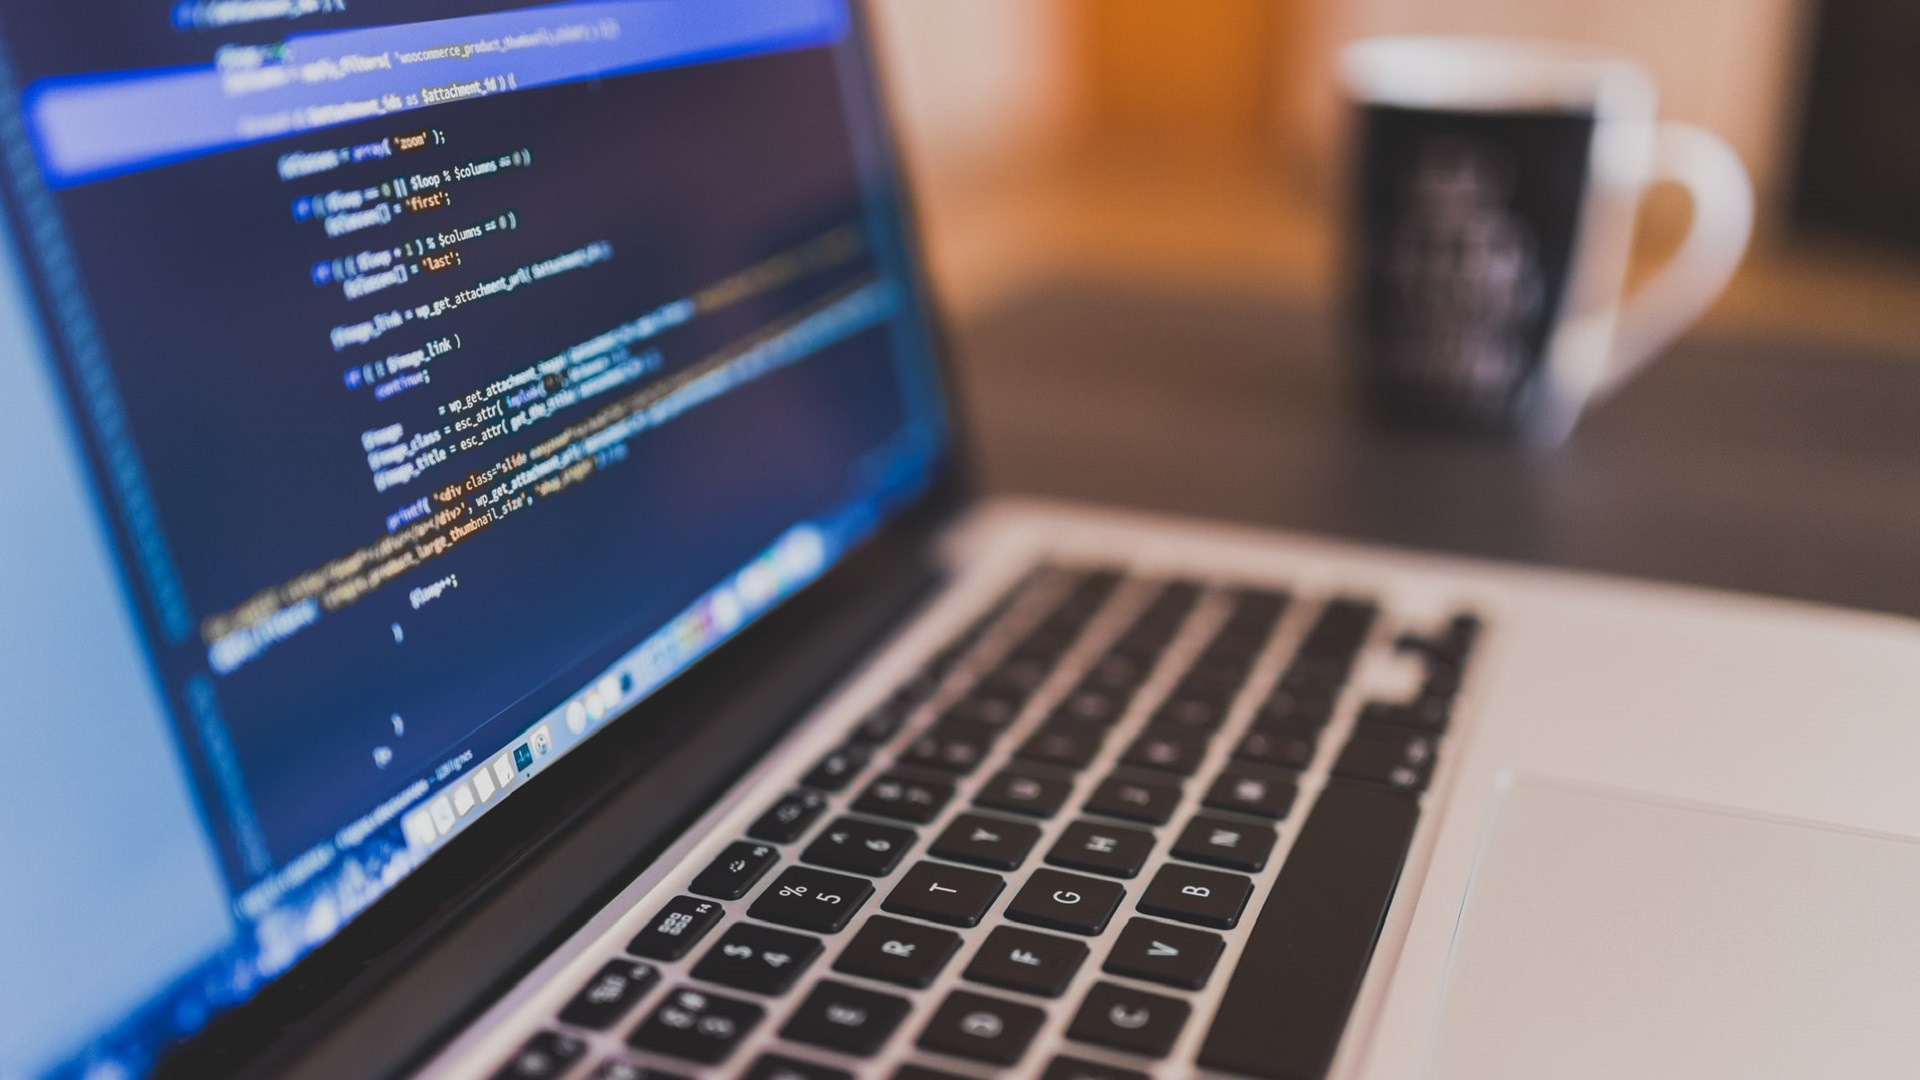
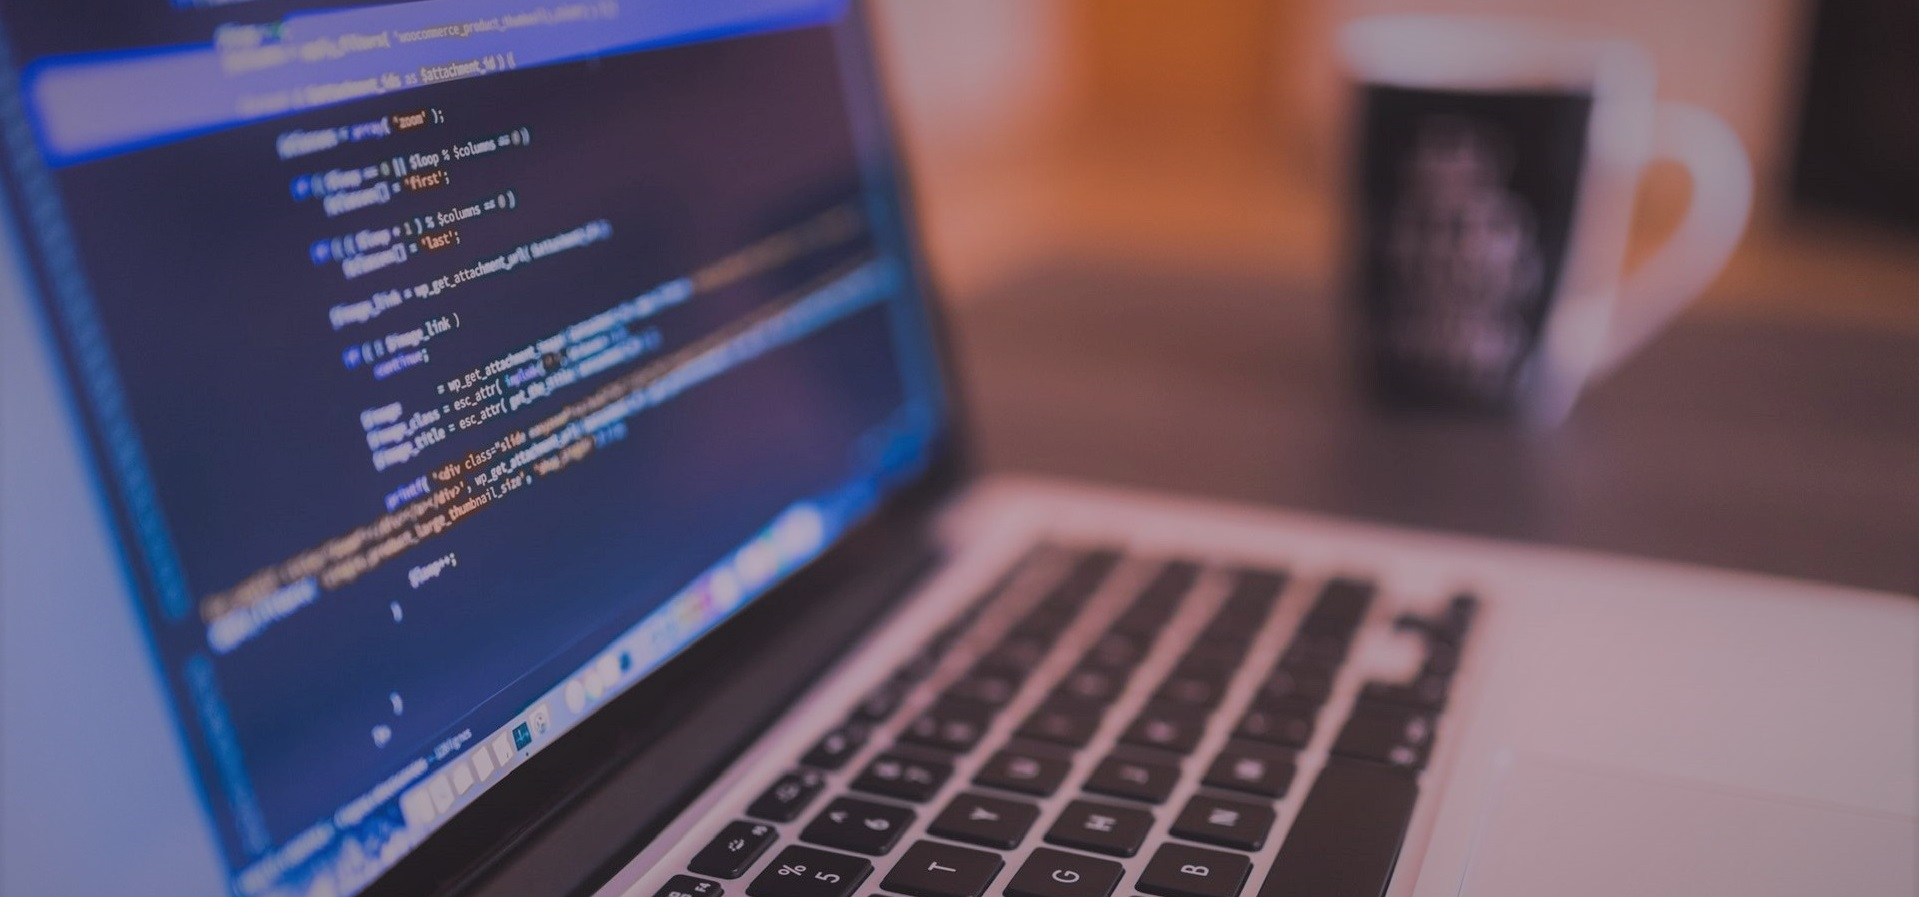
descriptions adjusted and images added

diff --git a/website/src/assets/projects/serpens-pro/en-assets.js b/website/src/assets/projects/serpens-pro/en-assets.js
@@ -1,11 +1,22 @@
-import serpensPro from './images/showcase.jpg';
+import serpensShowcase from './images/serpens-showcase.jpg';
+import serpens1 from './images/serpens1.jpg';
+import serpens2 from './images/serpens2.jpg';
 
 export default {
   title: '»Serpens Pro«',
   showcase: {
-    image: serpensPro,
-    text: 'A geometric typeface, based on elementary forms and bound by strict rules. This font is based upon divided circles and lines in corresponding lengths. For capital letters, individual parts must not overlap, instead gaps are used to achieve appropriate dimensions. For minuscules overlapping is permitted to ensure more compact visuals. The circle elements also give the font its name: »Serpens Pro«.'
+    image: serpensShowcase,
+    text: 'A geometric typeface, based on elementary forms and bound by strict rules. Readibility was not the main focus of this project, the goal was to define strict principles and not depart from them even if it makes the font less readable. The circle elements give the font its name: »Serpens Pro«.'
   },
-  blocks: [],
-  footer: ''
+  blocks: [
+    {
+      image: serpens1,
+      text: 'The elements used to form the letters of »Serpens Pro« - divided circles and lines in corresponding lengths. For capital letters, individual parts must not overlap, instead gaps are used to achieve appropriate dimensions. For minuscules overlapping is permitted to ensure more compact visuals.'
+    },
+    {
+      image: serpens2,
+      text: 'I designed two posters to showcase the font. One displays all capital letters of the alphabet on a chessboard-like patteen. The other poster displays the geometric elements the typeface\'s letters are made out of. This shows the technical and abstract construction principles of »Serpens Pro«.'
+    }
+  ],
+  footer: 'I also created a video showcasing the construction of the font. There, the basic elements morph into letters to form a lettering. This video can be found on my <a href="https://jonaskuske.myportfolio.com/serpens-pro" rel="noopener" target="_blank">Adobe Portfolio</a>.'
 };

diff --git a/website/src/assets/projects/lsb-homepage/de-assets.js b/website/src/assets/projects/lsb-homepage/de-assets.js
@@ -1,5 +1,6 @@
-import lsbHomepage from './images/showcase.png';
 import lsbShowcase from './images/lsbShowcase.jpg';
+import lsb1 from './images/lsb1.jpg';
+import lsb2 from './images/lsb2.jpg';
 
 export default {
   title: '»Landessportbund Bremen«',
@@ -9,11 +10,11 @@ export default {
   },
   blocks: [
     {
-      image: lsbHomepage,
-      text: 'Das Redesign setzt auf eine klare visuelle Hierarchie und integriert die Designprinzipien, die ich in dem  <a href="/detail?project=lsb-design">Corporate Design Manual</a> für den LSB definiert habe; dies ist besonders gut an Schriftart und Farbgestaltung zu erkennen. So entstanden mehrere neu gestaltete Seiten. Wechselt man zwischen den Seiten, so zeigt eine <a href="https://www.jonaskuske.com/lsb-loader/" rel="noopener" target="_blank">animierte Version</a> des neuen, treppenförmigen Logos den Ladevorgang an.'
+      image: lsb1,
+      text: 'Das Redesign setzt auf eine klare visuelle Hierarchie und integriert die Designprinzipien, die ich in dem <a href="/detail?project=lsb-design">Corporate Design Manual</a> für den LSB definiert habe; dies ist besonders gut an Schriftart und Farbgestaltung zu erkennen. So entstanden mehrere neu gestaltete Seiten. Wechselt man zwischen den Seiten, so zeigt eine <a href="https://www.jonaskuske.com/lsb-loader/" rel="noopener" target="_blank">animierte Version</a> des neuen, treppenförmigen Logos den Ladevorgang an.'
     },
     {
-      image: lsbHomepage,
+      image: lsb2,
       text: 'Eine der neugestalteten Seiten ist die Seite „Sportangebote“. Während Nutzer auf der alten Website erst aus mehreren Dropdown-Menüs wählen und dann manuell die Suche starten mussten, setzt die von mir redesignte Version auf eine Ergebnisliste, die sich mittels Radiobuttons und einem Suchfeld filtern lässt und die aktualisierten Ergebnisse sofort anzeigt. Umgesetzt wurde dies mittels verschiedener „computed properties“ in Vue.js. Das aktualisieren der Liste wird durch "FLIP Transitions" animiert.'
     }
   ],

diff --git a/website/src/assets/projects/lsb-homepage/en-assets.js b/website/src/assets/projects/lsb-homepage/en-assets.js
@@ -1,11 +1,22 @@
-import lsbHomepage from './images/showcase.png';
+import lsbShowcase from './images/lsbShowcase.jpg';
+import lsb1 from './images/lsb1.jpg';
+import lsb2 from './images/lsb2.jpg';
 
 export default {
   title: '»Landessportbund Bremen«',
   showcase: {
-    image: lsbHomepage,
+    image: lsbShowcase,
     text: 'Prototype of a redesigned Homepage, made as part of a Corporate Design concept for the "Landessportbund Bremen". Apart from the design, the prototype already has some functionality built in, like live-searching lists and more. Built and animated using Vue.js.'
   },
-  blocks: [],
-  footer: ''
+  blocks: [
+    {
+      image: lsb1,
+      text: 'The redesign incorporates a clean structure and is built following the guidelines I outlined in the <a href="/detail?project=lsb-design">Corporate Design Manual</a> for the LSB. This is most noticable with the typography and color scheme of the site. Following these principles, multiple pages were designed from scratch. When navigating between pages, an <a href="https://www.jonaskuske.com/lsb-loader/" rel="noopener" target="_blank">animated version</a> of the new, staircase-shaped logo shows the loading process.'
+    },
+    {
+      image: lsb2,
+      text: 'One of the redesigned sites is the page "sport offerings". On the old site, users first had to select from multiple dropdown menus and then manually start a search to see the available offerings. My version uses a results list that updates immediately after the user has typed into the search bar or filtered the results using one of the radio buttons. This was achieved by using multiple "computed properties" in Vue.js. The automatic updating of the results is animated using "FLIP transitions".'
+    }
+  ],
+  footer: 'I presented the newly designed homepage to the »Landessportbund Bremen« in the winter of 2017/18 - the first feedback was very positive.'
 };

diff --git a/website/src/assets/projects/dmp-portfolio/en-assets.js b/website/src/assets/projects/dmp-portfolio/en-assets.js
@@ -1,18 +1,20 @@
-import dmpPortfolio from './images/showcase.jpg';
+import dmpShowcase from './images/dmp-showcase.jpg';
+import dmpThree from './images/dmpThree.jpg';
+import dmpTwo from './images/dmpTwo.jpg';
 
 export default {
   title: '»Digital Media Production«',
   showcase: {
-    image: dmpPortfolio,
+    image: dmpShowcase,
     text: 'To represent the university course »digital media production« at the University of Applied Sciences Bremerhaven, the university tasked me as part of a small team of students with designing and developing a portfolio website for the course. The site is supposed to showcase various works created by students, so potential applicants and other interested parties can see what »digital media production« is all about.'
   },
   blocks: [
     {
-      image: dmpPortfolio,
+      image: dmpThree,
       text: 'After a long design and conception phase, we settled for a design built around a tab-based navigation where the various content will be displayed within different tabs, yet all on a single (HTML) page. This gives users a blazingly fast experience and navigation - but requires the website to be a JavaScript-driven Single Page Application (SPA).'
     },
     {
-      image: dmpPortfolio,
+      image: dmpTwo,
       text: 'My team and I decided to use the JavaScript framework Vue.js combined with a modern build workflow powered by Webpack to implement the site as a SPA. The frontend has already made a lot of progress, a non-final version can be found <a href="http://dmp-portfolio.jonaskuske.com" rel="noopener" target="_blank">here</a>. <br/> In terms of backend, team and management are still evaluting the pros and cons of using a self written backend solution (PHP or Node) versus relying on a Headless CMS for content management.'
     },
 

diff --git a/website/src/assets/projects/serpens-pro/de-assets.js b/website/src/assets/projects/serpens-pro/de-assets.js
@@ -1,5 +1,6 @@
-import serpensShowcase from './images/serpens_showcase.png';
-import serpensPro from './images/showcase.jpg';
+import serpensShowcase from './images/serpens-showcase.jpg';
+import serpens1 from './images/serpens1.jpg';
+import serpens2 from './images/serpens2.jpg';
 
 export default {
   title: '»Serpens Pro«',
@@ -9,11 +10,11 @@ export default {
   },
   blocks: [
     {
-      image: serpensPro,
+      image: serpens1,
       text: 'Die Grundelemente, aus denen die Buchstaben des Fonts gebildet werden, bestehen aus zwei geachtelten Kreisen mit unterschiedlichem Radius und Geraden in korrespondierender Länge. Bei den Majuskeln der Schriftart dürfen sich die Grundelemente nicht überlappen, stattdessen werden Abstände zwischen den Einzelteilen verwendet, um einheitliche Abmessungen zu erreichen. Bei Minuskeln ist das Überlappen der Basiselemente gestattet, um eine kompaktere Optik zu erzielen.'
     },
     {
-      image: serpensPro,
+      image: serpens2,
       text: 'Die Schrift wurde zur Gestaltung von zwei Plakaten genutzt - das eine zeigt alle Majuskeln des Alphabets und stellt diese kontrastreich auf einem Schachbrett-ähnlichen Raster zur Schau. Das andere Plakat konzentriert sich auf die verschiedenen Grundformen, aus denen die Lettern von »Serpens Pro« zusammen gesetzt werden, und verdeutlicht so die technisch-abstrakte Konstruktionsweise, die dem Font zu Grunde liegt.'
     },
 

diff --git a/website/src/assets/projects/typro/en-assets.js b/website/src/assets/projects/typro/en-assets.js
@@ -1,9 +1,9 @@
 /* eslint-disable quotes */
 
-import showcase from './images/showcase.png';
-import typroPixel from './images/block1.png';
-import typroIPhone from './images/block2.png';
-import typroIPhoneX from './images/block3.png';
+import showcase from './images/showcase.jpg';
+import typroPixel from './images/block1.jpg';
+import typroIPhone from './images/block2.jpg';
+import typroIPhoneX from './images/block3.jpg';
 
 export default {
   title: '»typro«',

diff --git a/website/src/assets/projects/typro/de-assets.js b/website/src/assets/projects/typro/de-assets.js
@@ -1,8 +1,8 @@
 /* eslint-disable quotes */
-import showcase from './images/showcase.png';
-import typroPixel from './images/block1.png';
-import typroIPhone from './images/block2.png';
-import typroIPhoneX from './images/block3.png';
+import showcase from './images/showcase.jpg';
+import typroPixel from './images/block1.jpg';
+import typroIPhone from './images/block2.jpg';
+import typroIPhoneX from './images/block3.jpg';
 
 export default {
   title: '»typro«',

diff --git a/website/src/assets/projects/dmp-portfolio/de-assets.js b/website/src/assets/projects/dmp-portfolio/de-assets.js
@@ -1,6 +1,6 @@
 import dmpShowcase from './images/dmp-showcase.jpg';
 import dmpThree from './images/dmpThree.jpg';
-import dmpTwo from './images/dmpTwo.png';
+import dmpTwo from './images/dmpTwo.jpg';
 
 export default {
   title: '»Digitale Medienproduktion«',

diff --git a/website/src/assets/projects/code-projects/de-assets.js b/website/src/assets/projects/code-projects/de-assets.js
@@ -1,4 +1,4 @@
-import codeShowcase from './images/code_showcase-edit.jpg';
+import codeShowcase from './images/code_showcase.jpg';
 
 export default {
   title: '»Code Projekte«',

diff --git a/website/src/assets/projects/code-projects/en-assets.js b/website/src/assets/projects/code-projects/en-assets.js
@@ -1,4 +1,4 @@
-import codeShowcase from './images/code_showcase-edit.jpg';
+import codeShowcase from './images/code_showcase.jpg';
 
 export default {
   title: '»Code Projects«',
